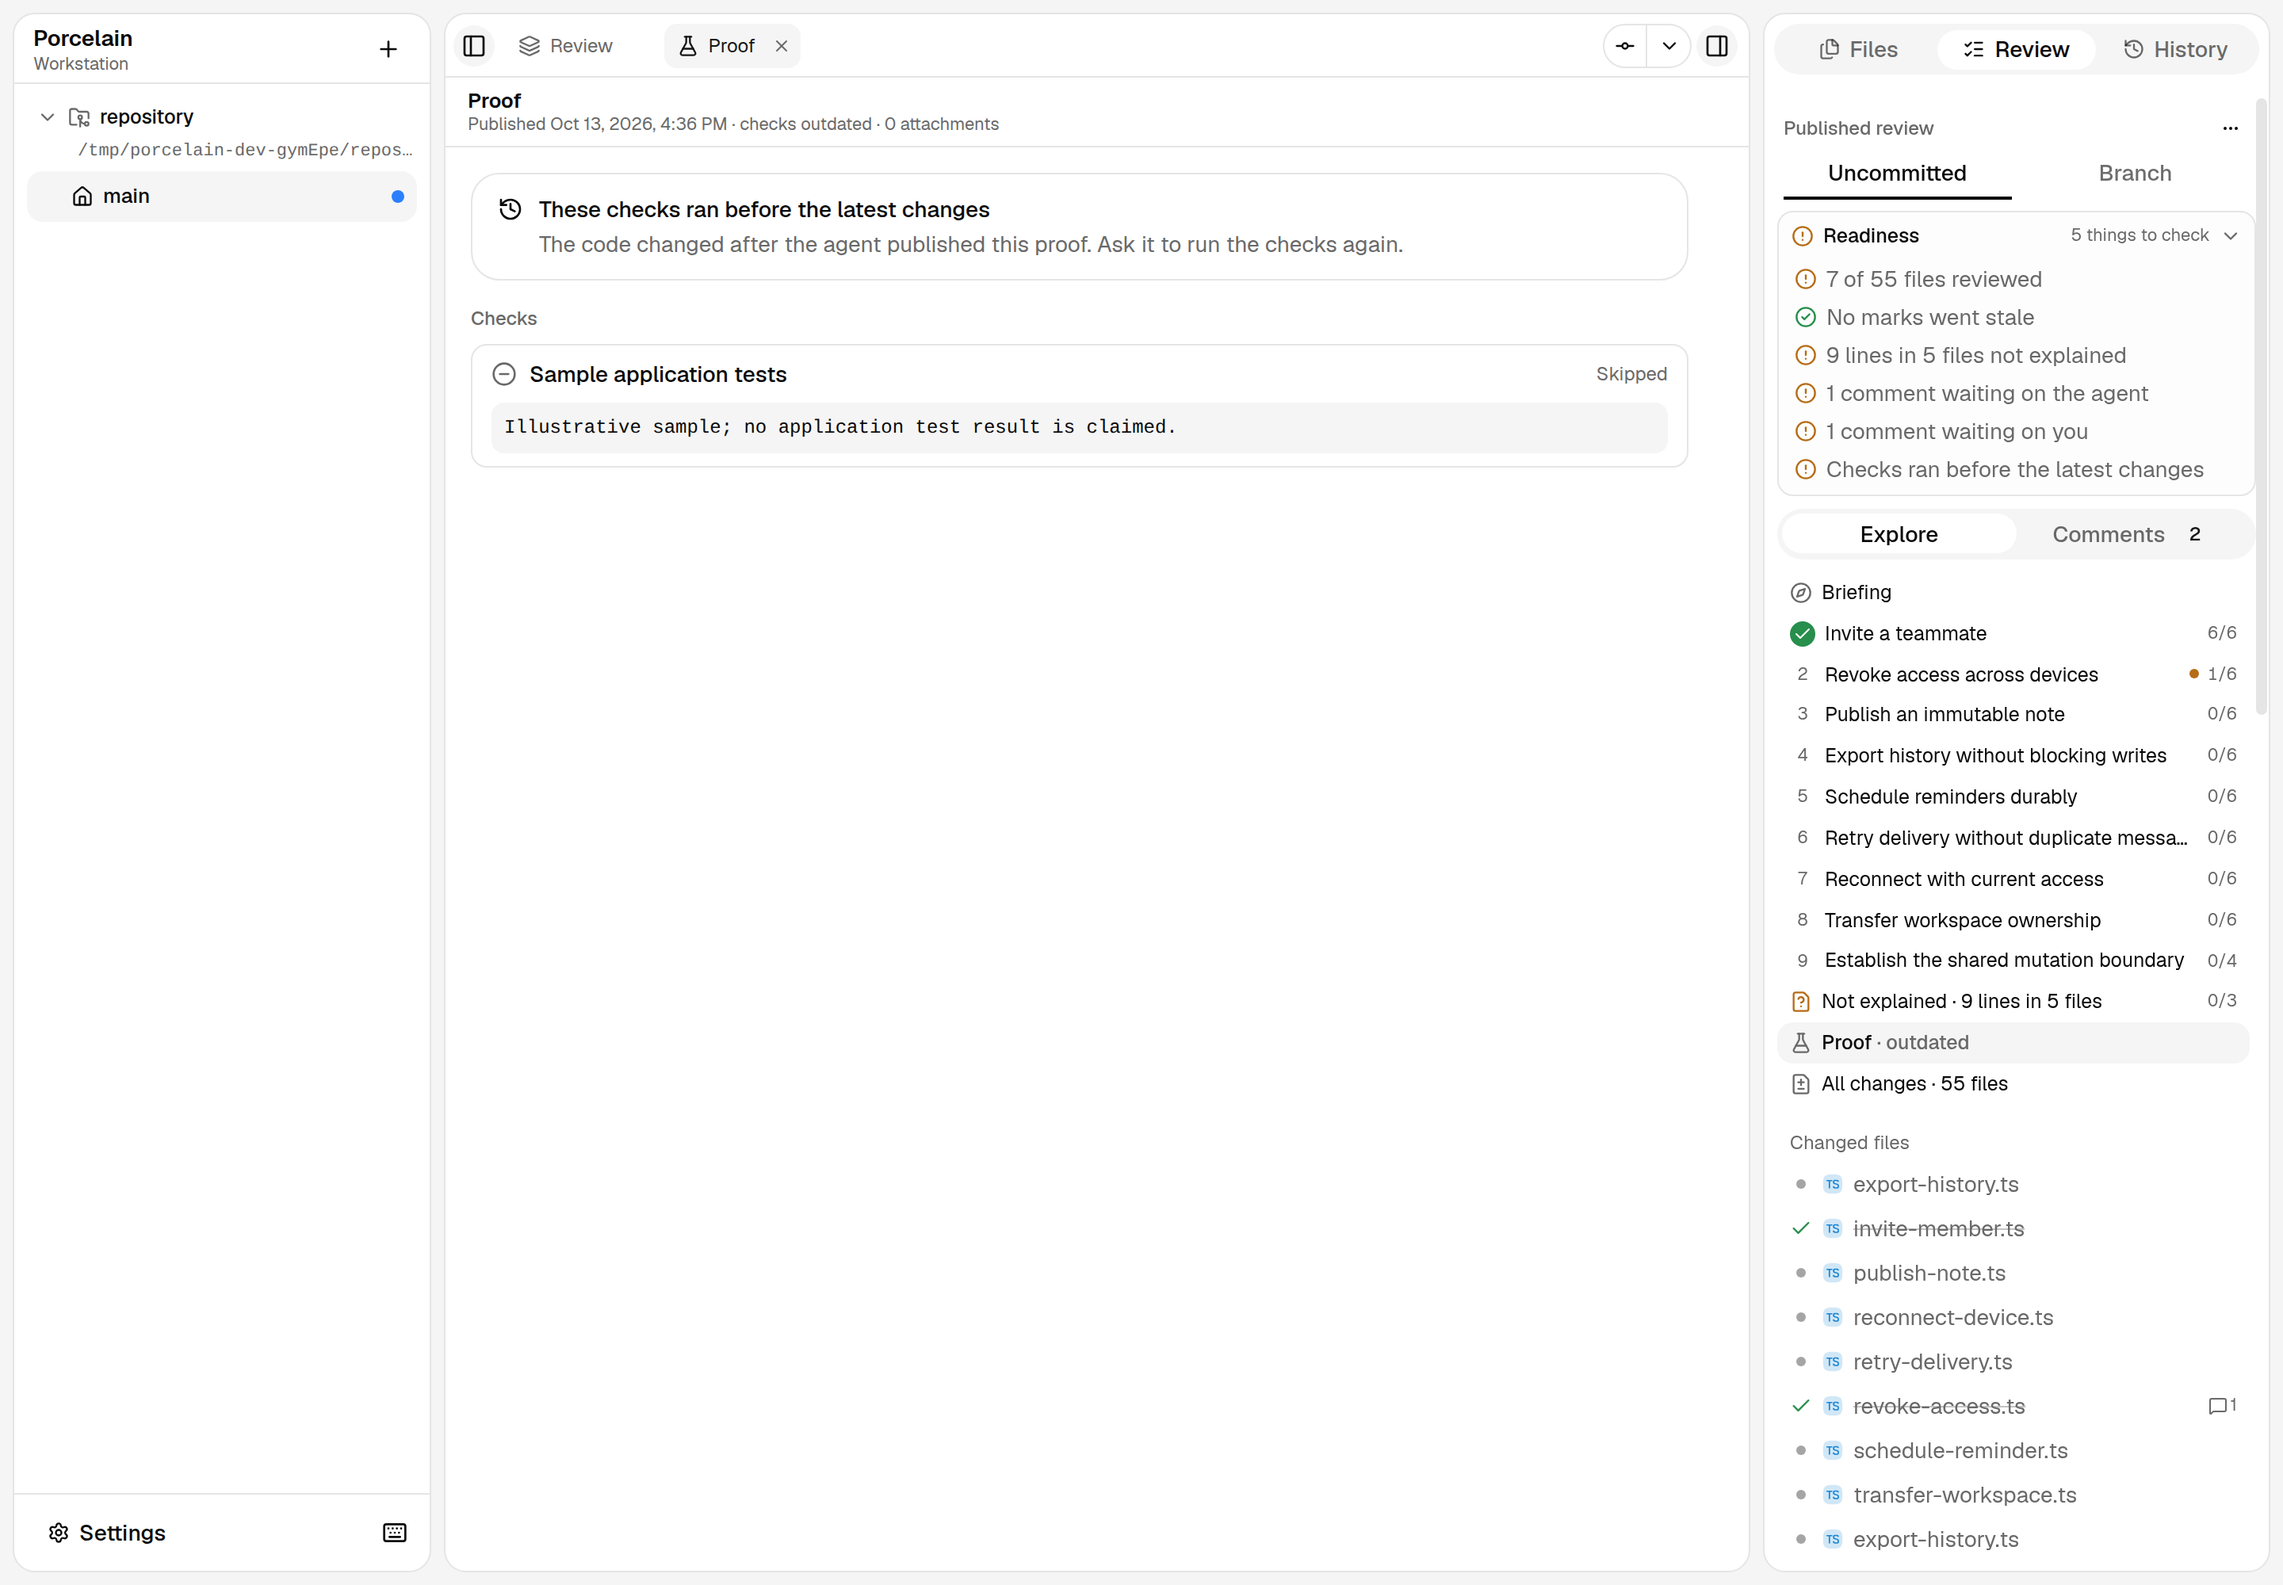
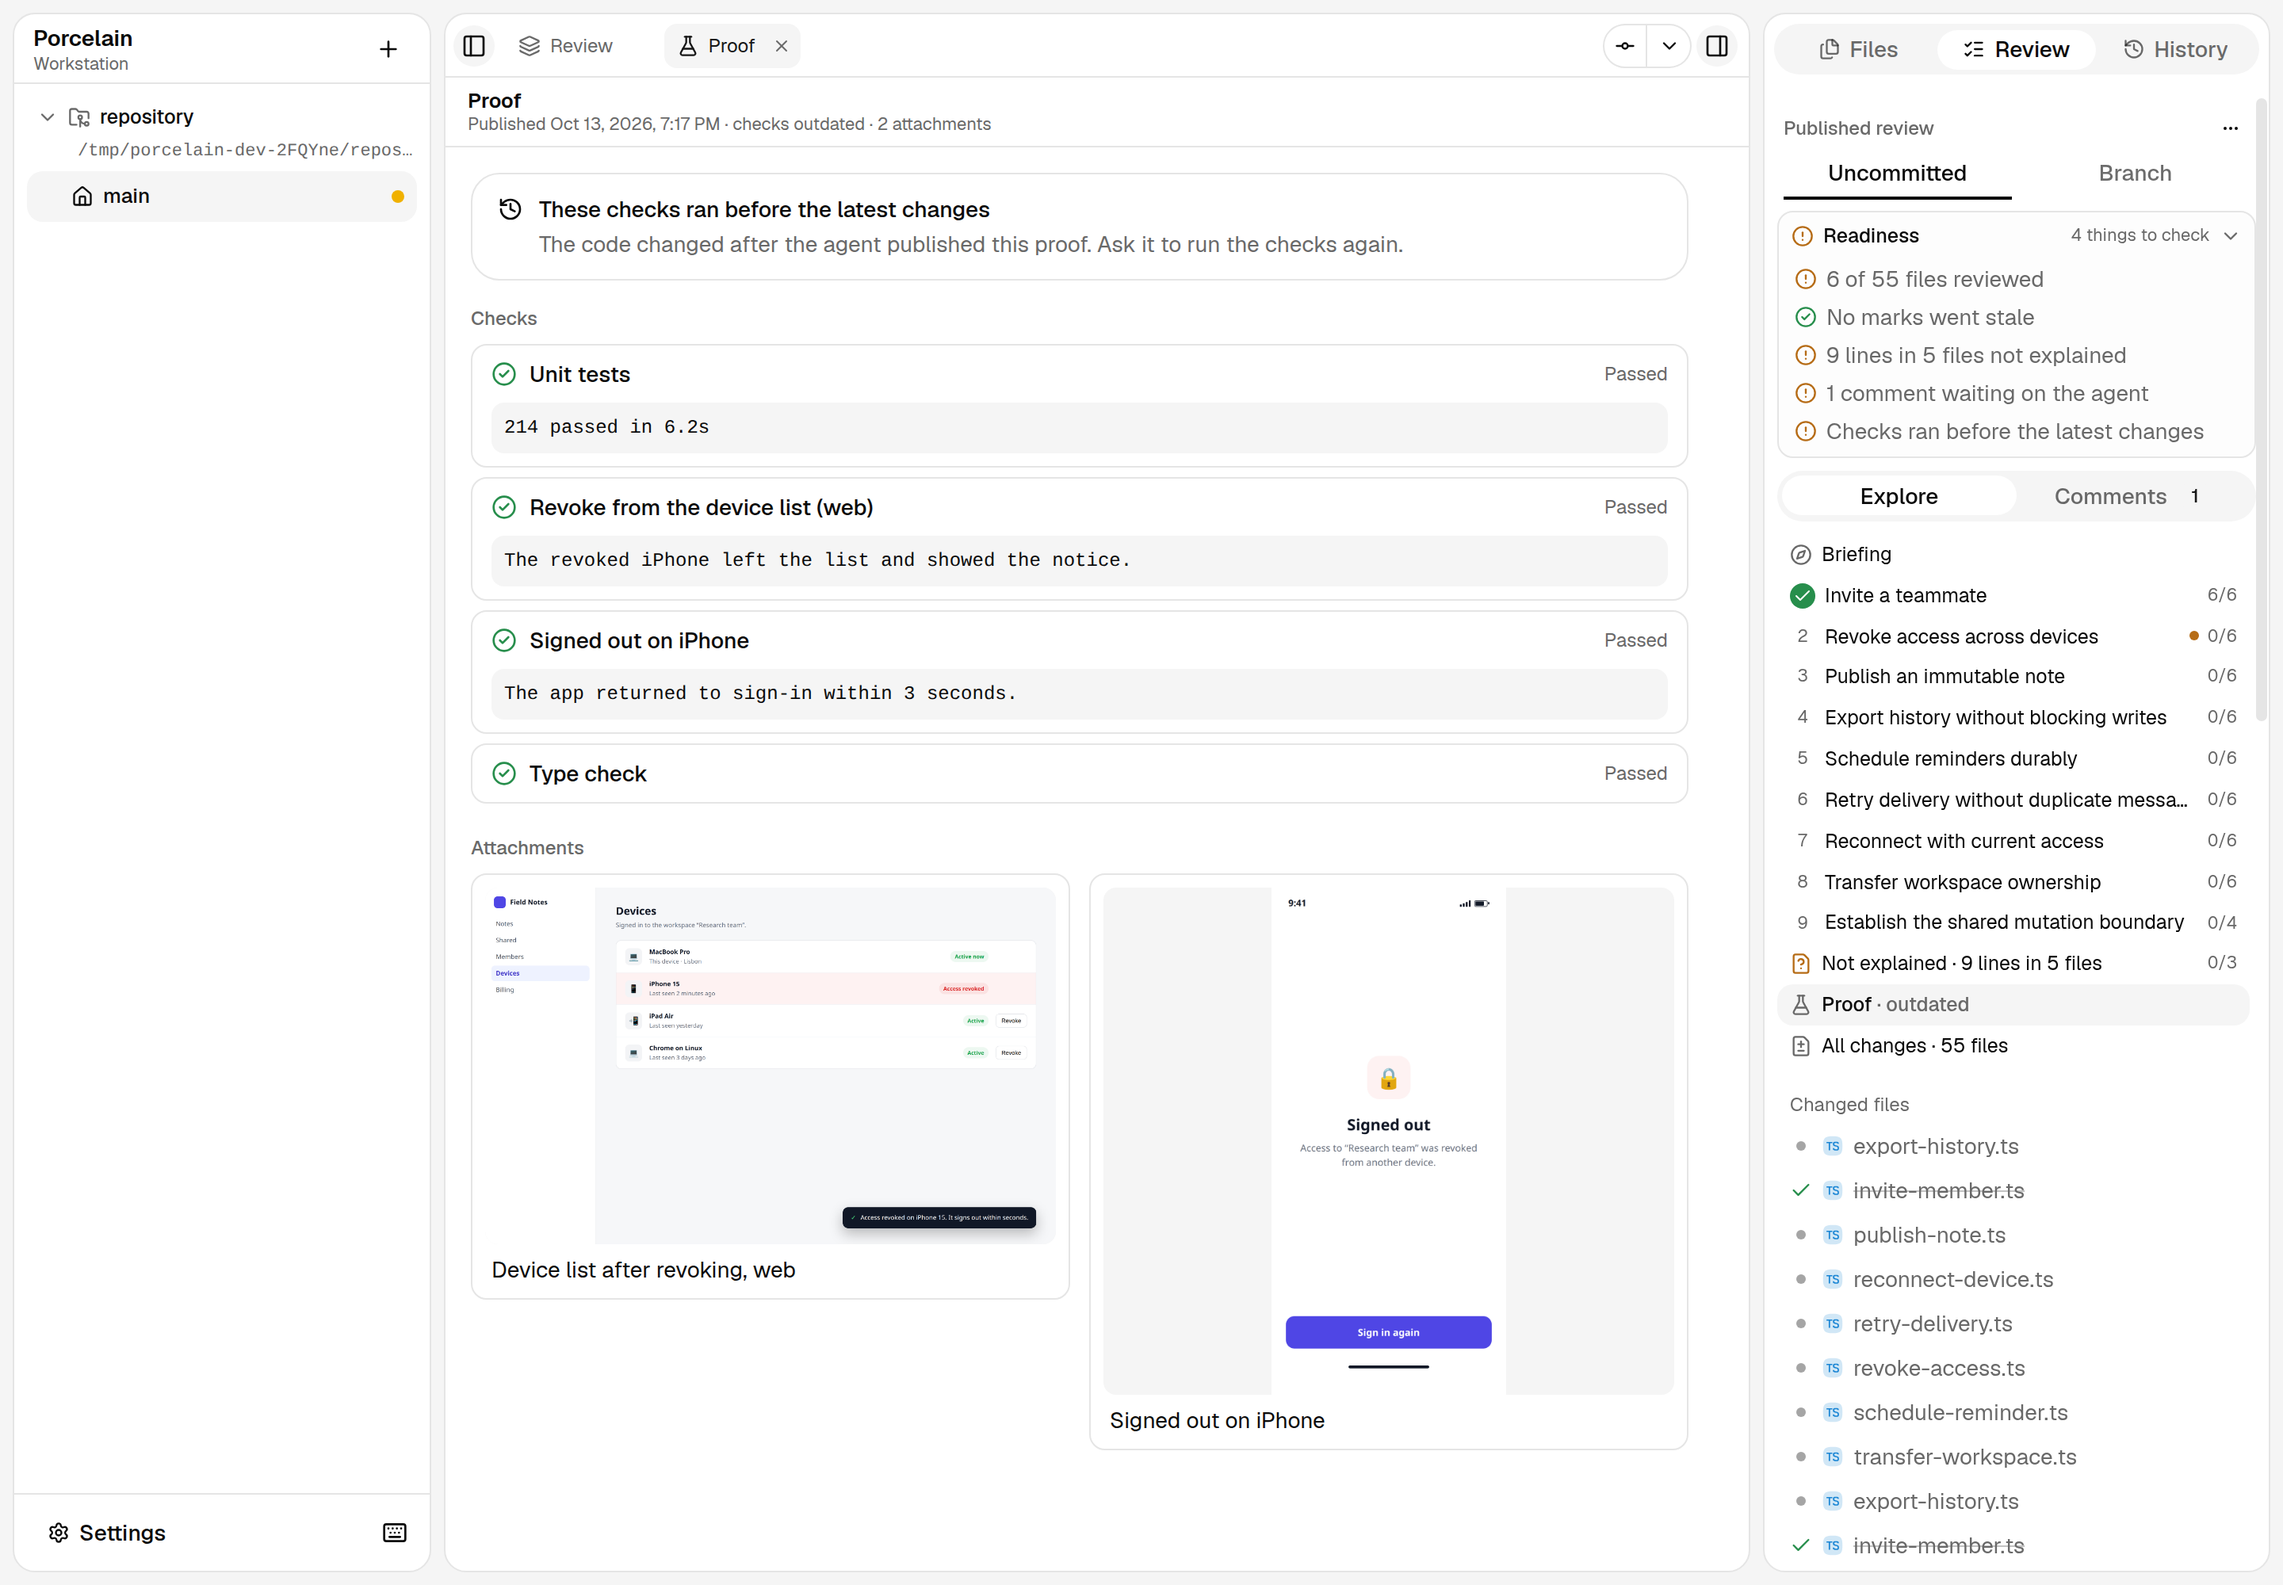
Show proof with screenshots, and make the privacy page worth opening.

diff --git a/README.md b/README.md
@@ -24,7 +24,7 @@ The browser review flow includes:
 
 *A file comment and a reply sent through the sample MCP connection.*
 
-![Proof shows illustrative passing and failing checks, an image attachment and the readiness panel](docs/readme/proof.png)
+![Proof shows passing checks, a web and an iPhone screenshot the agent attached, and the readiness panel](docs/readme/proof.png)
 
 *Proof displays what the agent reported; these sample results are not checks run on Porcelain itself.*
 
